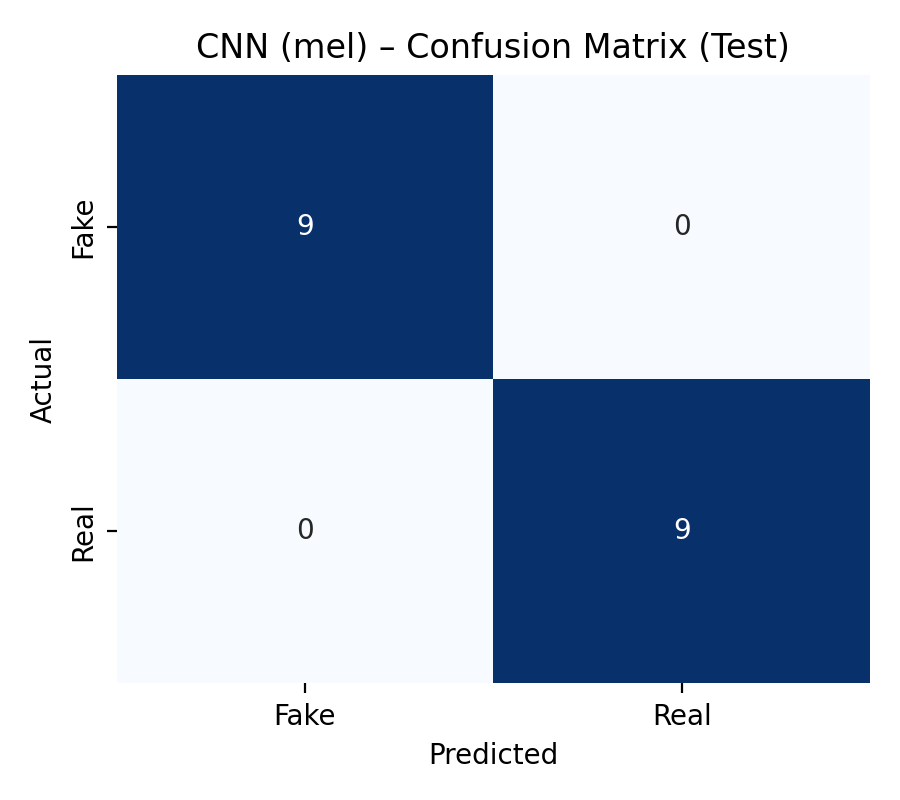
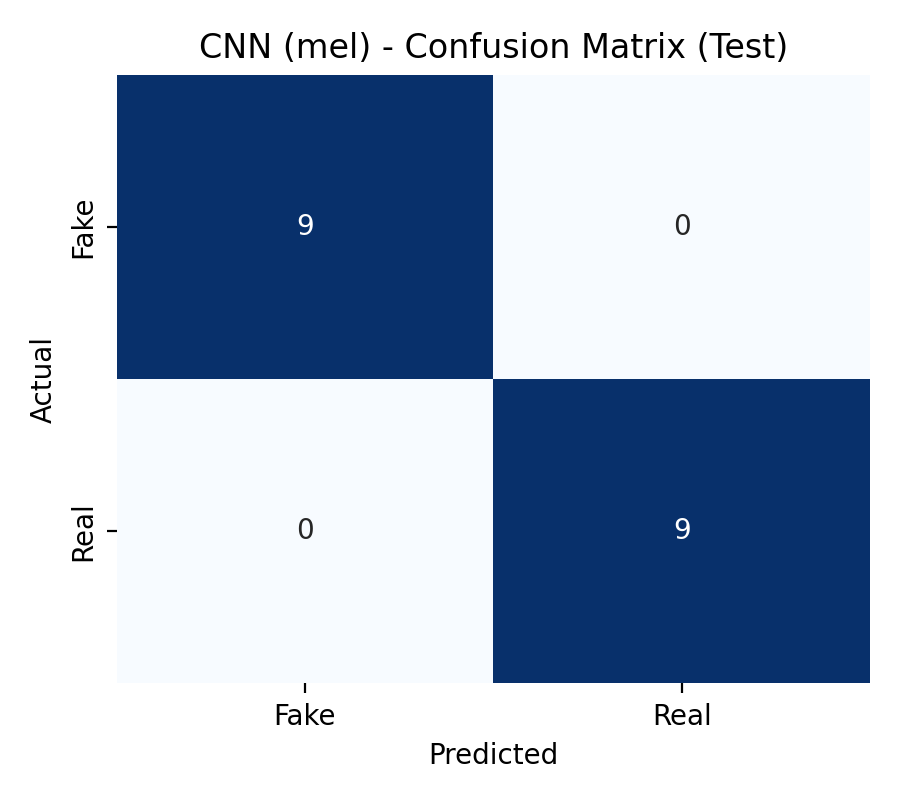
Remove long dashes from report artifacts
Made-with: Cursor

Changed region(s): [[0.2178, 0.0312, 0.8711, 0.0938]]

diff --git a/report/build_report.py b/report/build_report.py
@@ -148,7 +148,7 @@ def build_pdf(out_pdf: Path):
     )
     story.append(
         Paragraph(
-            "<b>(C)</b> Modern anti-spoofing architectures (e.g., RawNet-style models and attention-based models such as AASIST) often combine time–frequency cues with strong temporal modeling to improve robustness.",
+            "<b>(C)</b> Modern anti-spoofing architectures (e.g., RawNet-style models and attention-based models such as AASIST) often combine time-frequency cues with strong temporal modeling to improve robustness.",
             styles["Body"],
         )
     )

diff --git a/src/make_figures.py b/src/make_figures.py
@@ -40,7 +40,7 @@ def main():
         metrics = json.loads(metrics_path.read_text(encoding="utf-8"))
         cm = np.array(metrics["confusion_matrix"], dtype=int)
         out_path = figures_dir / f"confusion_{metrics_path.stem}.png"
-        save_confusion_matrix(cm, out_path, f"{name} – Confusion Matrix (Test)")
+        save_confusion_matrix(cm, out_path, f"{name} - Confusion Matrix (Test)")
 
     print(f"Figures written to: {figures_dir}")
 
